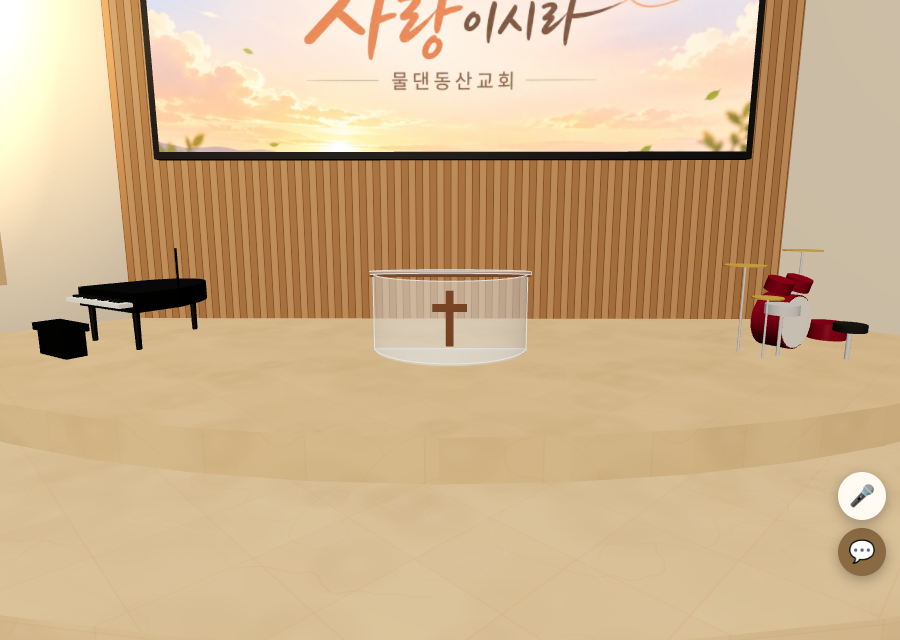
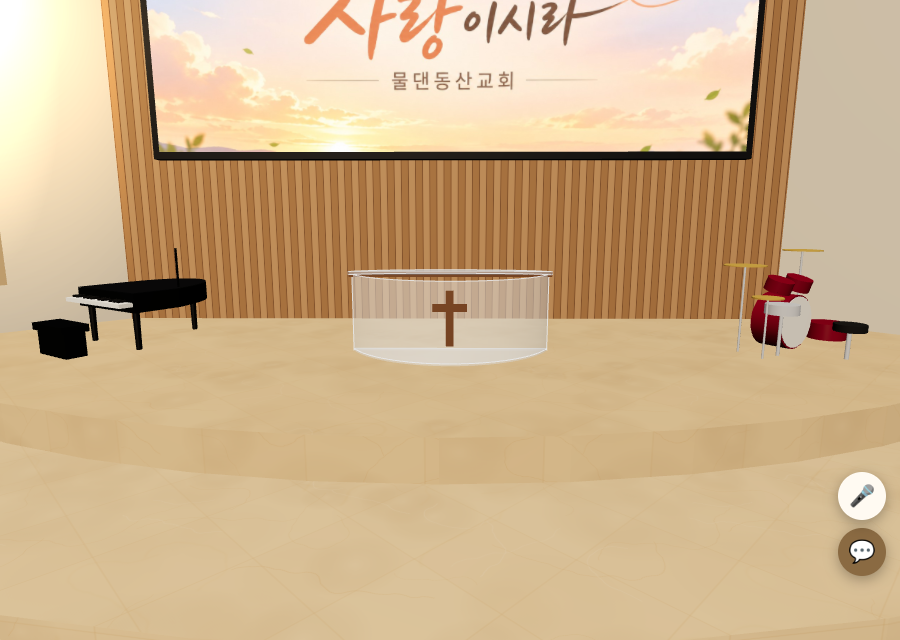
Wider rounded acrylic pulpit (1.4m)
Claude-Session: https://claude.ai/code/session_01Vz1QJf3UdmpjXu7m5EnhFF

Changed region(s): [[0.56, 0.4062, 0.6222, 0.5625], [0.3733, 0.4062, 0.4356, 0.5625]]

diff --git a/index.html b/index.html
@@ -1816,7 +1816,7 @@
     }
     // ---- 투명 아크릴 강대상 (사용자 요청, 앞이 둥근 모양): 원래 강대상 상자는 보이지 않게만 하고(걷기 막힘은 그대로) 같은 자리에 새로 그림 ----
     function acrylicPulpit(g, pulpit) {
-      const W = 1.1, D = 0.5, H = 0.6;                           // 화면에 보일 크기: 폭 1.1 · 깊이 0.5 · 높이 0.6 (캐릭터 0.8m)
+      const W = 1.4, D = 0.5, H = 0.6;                           // 화면에 보일 크기 (가로로 키움, 사용자 요청): 폭 1.4 · 깊이 0.5 · 높이 0.6 (캐릭터 0.8m)
       pulpit.scale.x = W / 1.4; pulpit.scale.z = D / 0.65;        // 막힘 상자도 같은 크기로
       pulpit.material = new THREE.MeshBasicMaterial({ transparent: true, opacity: 0, depthWrite: false, colorWrite: false });
       pulpit.castShadow = false; pulpit.userData.noCamBlock = true;

diff --git a/docs/verification/2026-11-05/REPORT.md b/docs/verification/2026-11-05/REPORT.md
@@ -340,3 +340,7 @@
 ## 강대상 반투명으로 (사용자 요청: 너무 투명해서 안 보임)
 - 아크릴 불투명도 0.22 → 0.55, 젖빛(roughness 0.35)과 은은한 흰빛을 더하고 테두리 선을 조금 진하게. 뒤의 나무 벽이 흐리게 비침.
 - 검사: `pulpit2.cjs pulpit` → `pulpit-front/side/hall.png`, 오류 없음.
+
+## 강대상 가로로 키움 (사용자 요청)
+- 폭 1.1m → 1.4m (원래 강대상 폭과 같음). 깊이·높이·둥근 모양은 그대로. 걷기 막힘 상자도 같은 폭.
+- 검사: `pulpit2.cjs pulpit` 오류 없음. `pulpit.cjs`: 강대상 뒤·앞 길찾기 오차 0.04m, 기도제목 쓰기 버튼 보임.
